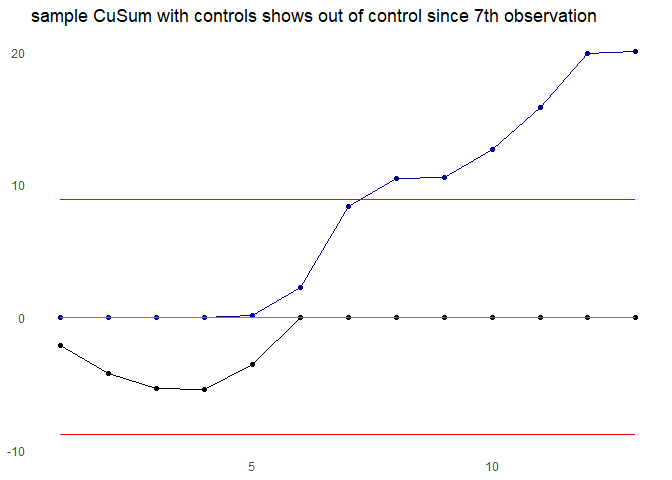
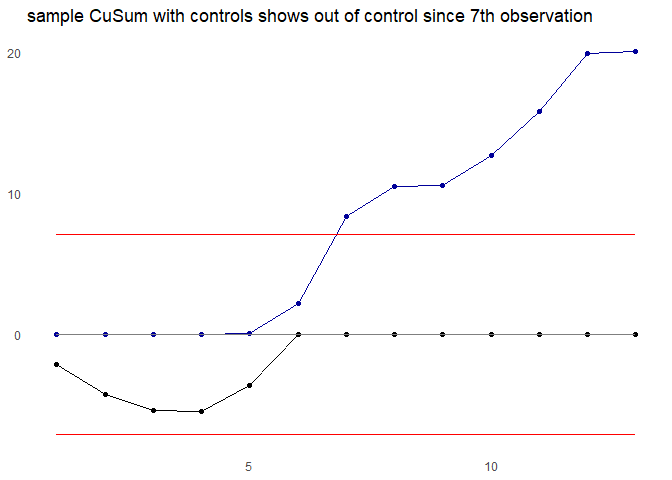
docs and cusum control

diff --git a/README.md b/README.md
@@ -72,34 +72,34 @@ single vector and one chart at a time.
 test_vec3 <- c(1,1,2,3,5,7,11,7,5,7,8,9,5)
 controls <- cusum_control(test_vec3, target = 4)
 controls
-#>     x target variance cusum      cplus cum_nplus      cneg cum_nneg      ucl
-#> 1   1      4       -3    -3  0.0000000         0 -2.113475       -1 8.865248
-#> 2   1      4       -3    -6  0.0000000         0 -4.226950       -2 8.865248
-#> 3   2      4       -2    -8  0.0000000         0 -5.340426       -3 8.865248
-#> 4   3      4       -1    -9  0.0000000         0 -5.453901       -4 8.865248
-#> 5   5      4        1    -8  0.1134752         1 -3.567376       -5 8.865248
-#> 6   7      4        3    -5  2.2269504         2  0.000000        0 8.865248
-#> 7  11      4        7     2  8.3404255         3  0.000000        0 8.865248
-#> 8   7      4        3     5 10.4539007         4  0.000000        0 8.865248
-#> 9   5      4        1     6 10.5673759         5  0.000000        0 8.865248
-#> 10  7      4        3     9 12.6808511         6  0.000000        0 8.865248
-#> 11  8      4        4    13 15.7943262         7  0.000000        0 8.865248
-#> 12  9      4        5    18 19.9078014         8  0.000000        0 8.865248
-#> 13  5      4        1    19 20.0212766         9  0.000000        0 8.865248
-#>          lcl centre obs
-#> 1  -8.865248      0   1
-#> 2  -8.865248      0   2
-#> 3  -8.865248      0   3
-#> 4  -8.865248      0   4
-#> 5  -8.865248      0   5
-#> 6  -8.865248      0   6
-#> 7  -8.865248      0   7
-#> 8  -8.865248      0   8
-#> 9  -8.865248      0   9
-#> 10 -8.865248      0  10
-#> 11 -8.865248      0  11
-#> 12 -8.865248      0  12
-#> 13 -8.865248      0  13
+#>     x target variance std_dev cusum      cplus      cneg cum_nplus cum_nneg
+#> 1   1      4       -3 1.77305    -3  0.0000000 -2.113475         0       -1
+#> 2   1      4       -3 1.77305    -6  0.0000000 -4.226950         0       -2
+#> 3   2      4       -2 1.77305    -8  0.0000000 -5.340426         0       -3
+#> 4   3      4       -1 1.77305    -9  0.0000000 -5.453901         0       -4
+#> 5   5      4        1 1.77305    -8  0.1134752 -3.567376         1       -5
+#> 6   7      4        3 1.77305    -5  2.2269504  0.000000         2        0
+#> 7  11      4        7 1.77305     2  8.3404255  0.000000         3        0
+#> 8   7      4        3 1.77305     5 10.4539007  0.000000         4        0
+#> 9   5      4        1 1.77305     6 10.5673759  0.000000         5        0
+#> 10  7      4        3 1.77305     9 12.6808511  0.000000         6        0
+#> 11  8      4        4 1.77305    13 15.7943262  0.000000         7        0
+#> 12  9      4        5 1.77305    18 19.9078014  0.000000         8        0
+#> 13  5      4        1 1.77305    19 20.0212766  0.000000         9        0
+#>         ucl       lcl centre obs
+#> 1  7.092199 -7.092199      0   1
+#> 2  7.092199 -7.092199      0   2
+#> 3  7.092199 -7.092199      0   3
+#> 4  7.092199 -7.092199      0   4
+#> 5  7.092199 -7.092199      0   5
+#> 6  7.092199 -7.092199      0   6
+#> 7  7.092199 -7.092199      0   7
+#> 8  7.092199 -7.092199      0   8
+#> 9  7.092199 -7.092199      0   9
+#> 10 7.092199 -7.092199      0  10
+#> 11 7.092199 -7.092199      0  11
+#> 12 7.092199 -7.092199      0  12
+#> 13 7.092199 -7.092199      0  13
 ```
 
 ## CuSum Control Chart
